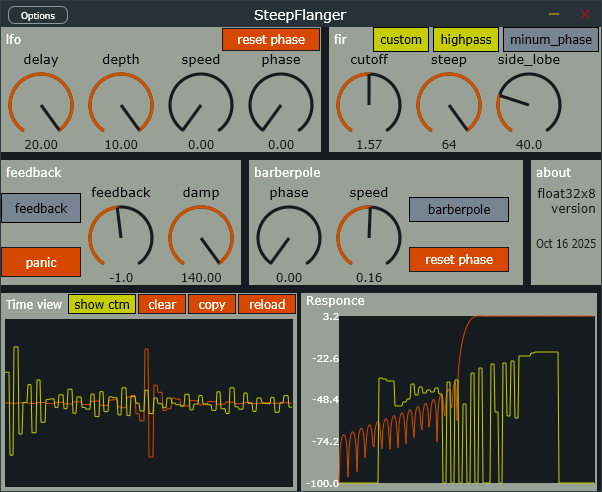
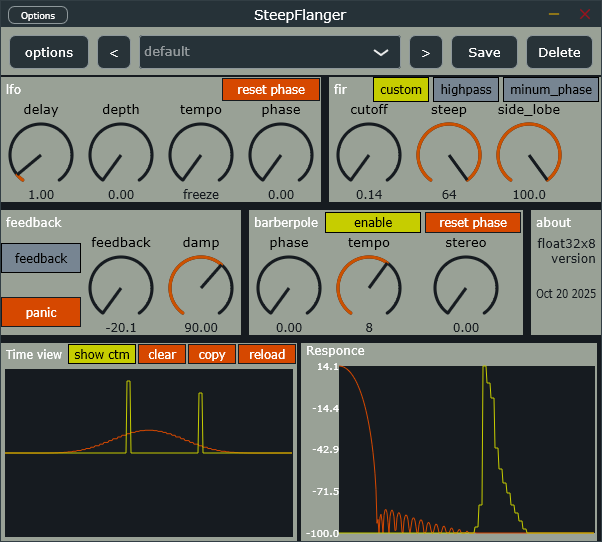
update gui and small param fix

diff --git a/plugins/deep-phaser/source/PluginEditor.cpp b/plugins/deep-phaser/source/PluginEditor.cpp
@@ -406,13 +406,12 @@ void DeepPhaserAudioProcessorEditor::resized() {
             barber_bound_ = bottom_block.removeFromLeft(260);
             auto barber_block = barber_bound_;
             auto barber_title_bound = barber_block.removeFromTop(25);
-            barber_enable_.setBounds(barber_title_bound.removeFromRight(100).reduced(2));
+            barber_reset_phase_.setBounds(barber_title_bound.removeFromRight(100).reduced(2));
+            barber_enable_.setBounds(barber_title_bound.removeFromRight(80).reduced(2));
             barber_title_.setBounds(barber_title_bound);
             barber_phase_.setBounds(barber_block.removeFromLeft(80));
             barber_speed_.setBounds(barber_block.removeFromLeft(80));
-            auto e = barber_block.removeFromLeft(100);
-            barber_stereo_.setBounds(e.removeFromTop(70).withWidth(50));
-            barber_reset_phase_.setBounds(e.reduced(4));
+            barber_stereo_.setBounds(barber_block);
         }
         bottom_block.removeFromLeft(8);
         {

diff --git a/plugins/deep-phaser/source/PluginProcessor.cpp b/plugins/deep-phaser/source/PluginProcessor.cpp
@@ -700,9 +700,8 @@ void DeepPhaserAudioProcessor::setStateInformation (const void* data, int sizeIn
             barber_lfo_state_.SetTempoTypeToFree();
             // version 0.1.0 or below doesn't have barber_stereo
             param_barber_stereo_->setValueNotifyingHost(param_barber_stereo_->convertTo0to1(0));
-            param_blend_range_->setValueNotifyingHost(param_barber_stereo_->convertTo0to1(0));
-            param_blend_phase_->setValueNotifyingHost(param_barber_stereo_->convertTo0to1(0));
-            blend_lfo_phase_ = 0;
+            param_blend_range_->setValueNotifyingHost(param_blend_range_->convertTo0to1(0));
+            param_blend_phase_->setValueNotifyingHost(param_blend_phase_->convertTo0to1(0));
             // conver raw coeff to pitch
             float const raw_coeff = state.getProperty("blend");
             float const omega = AllpassBuffer2::RevertCoeff2Omega(raw_coeff);
